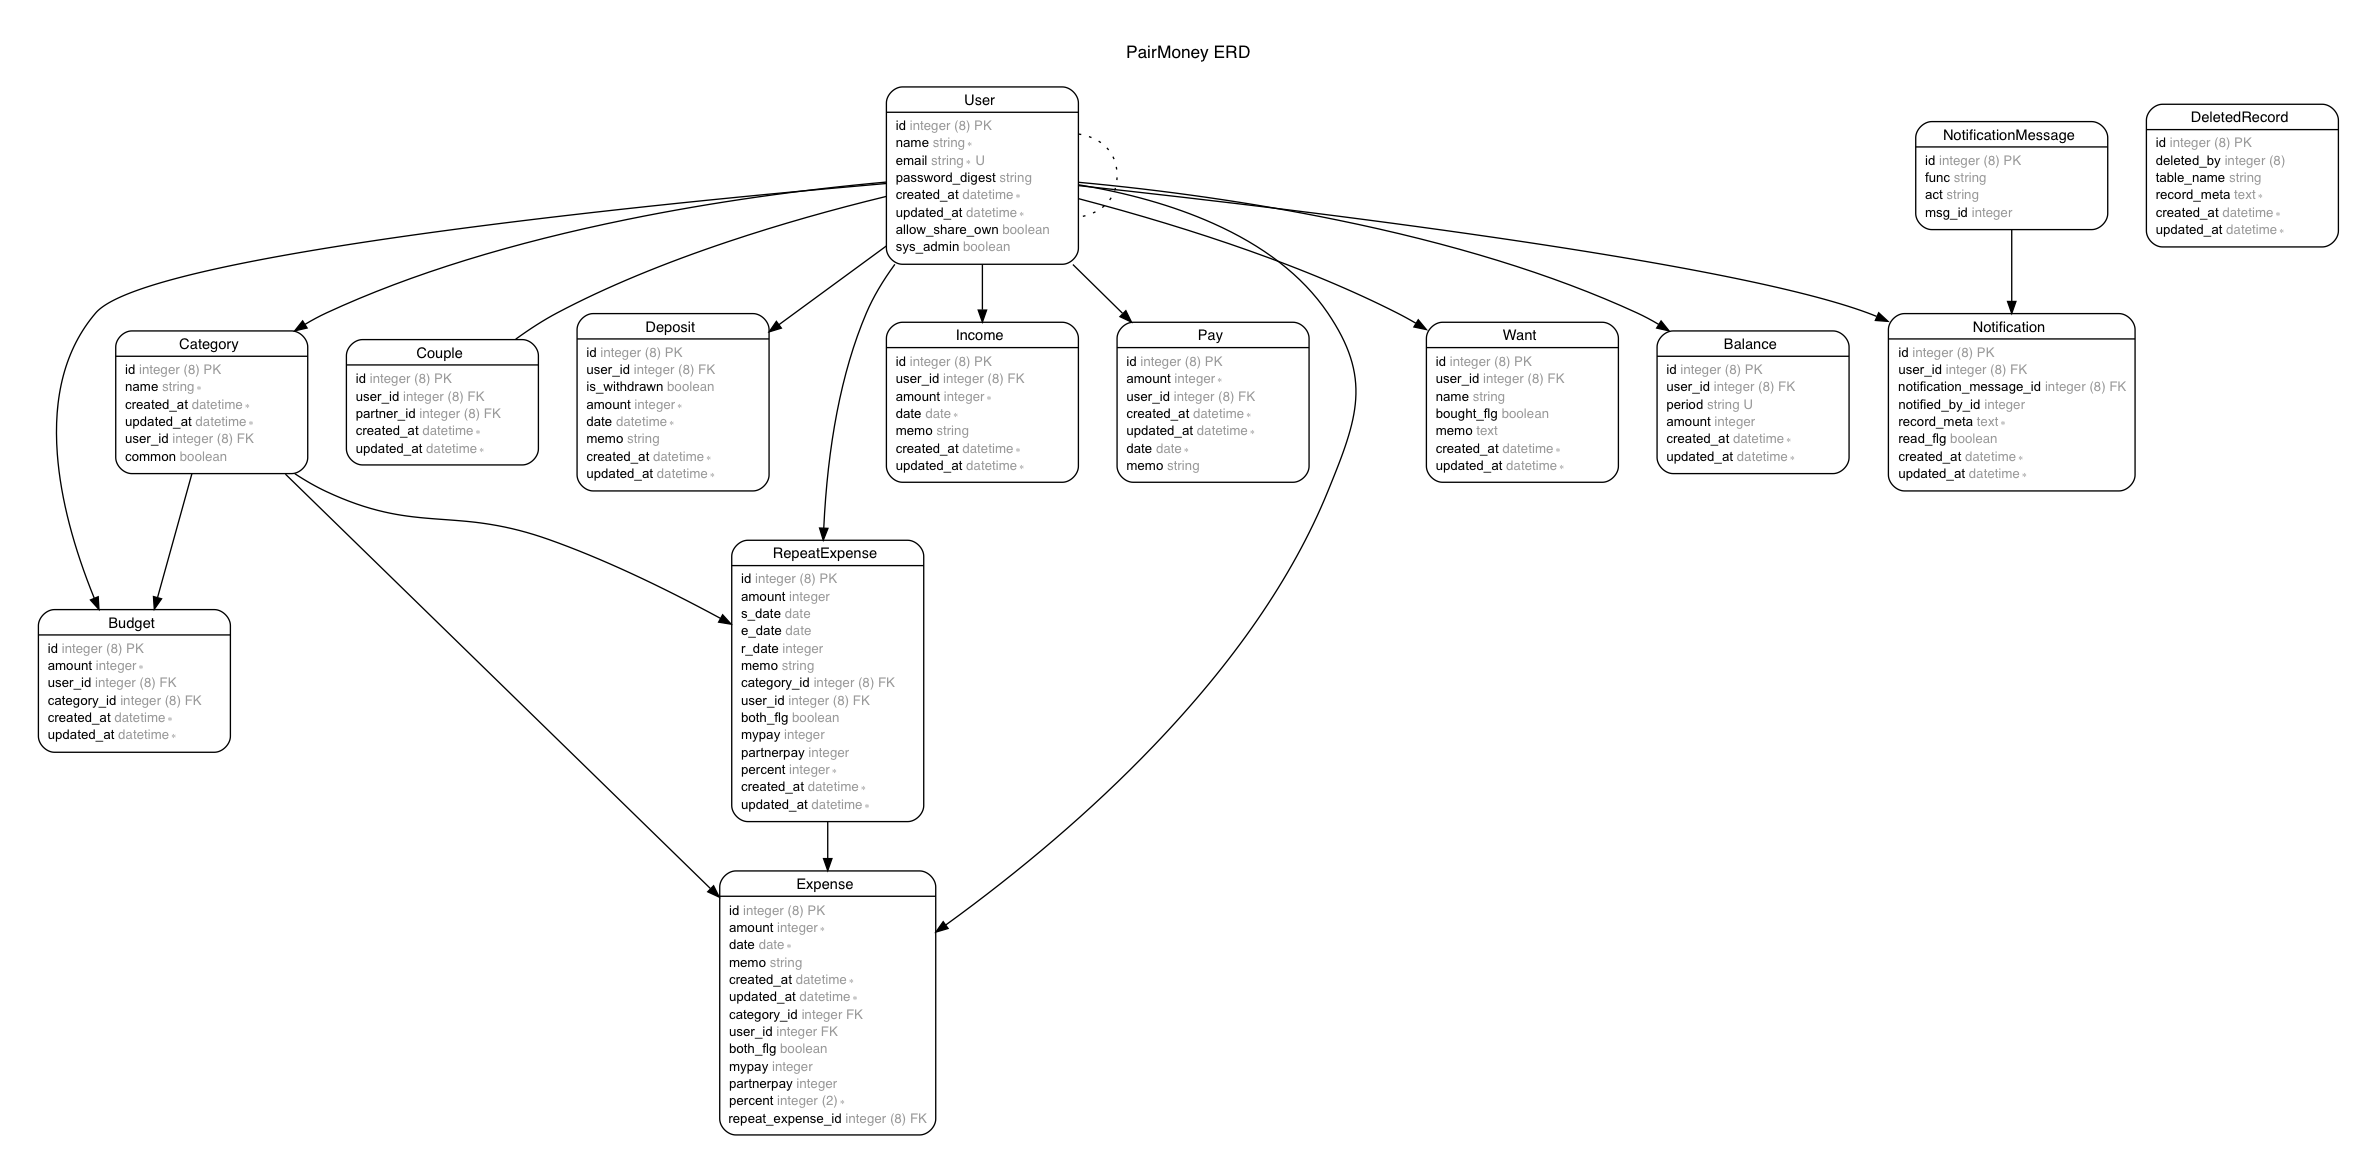
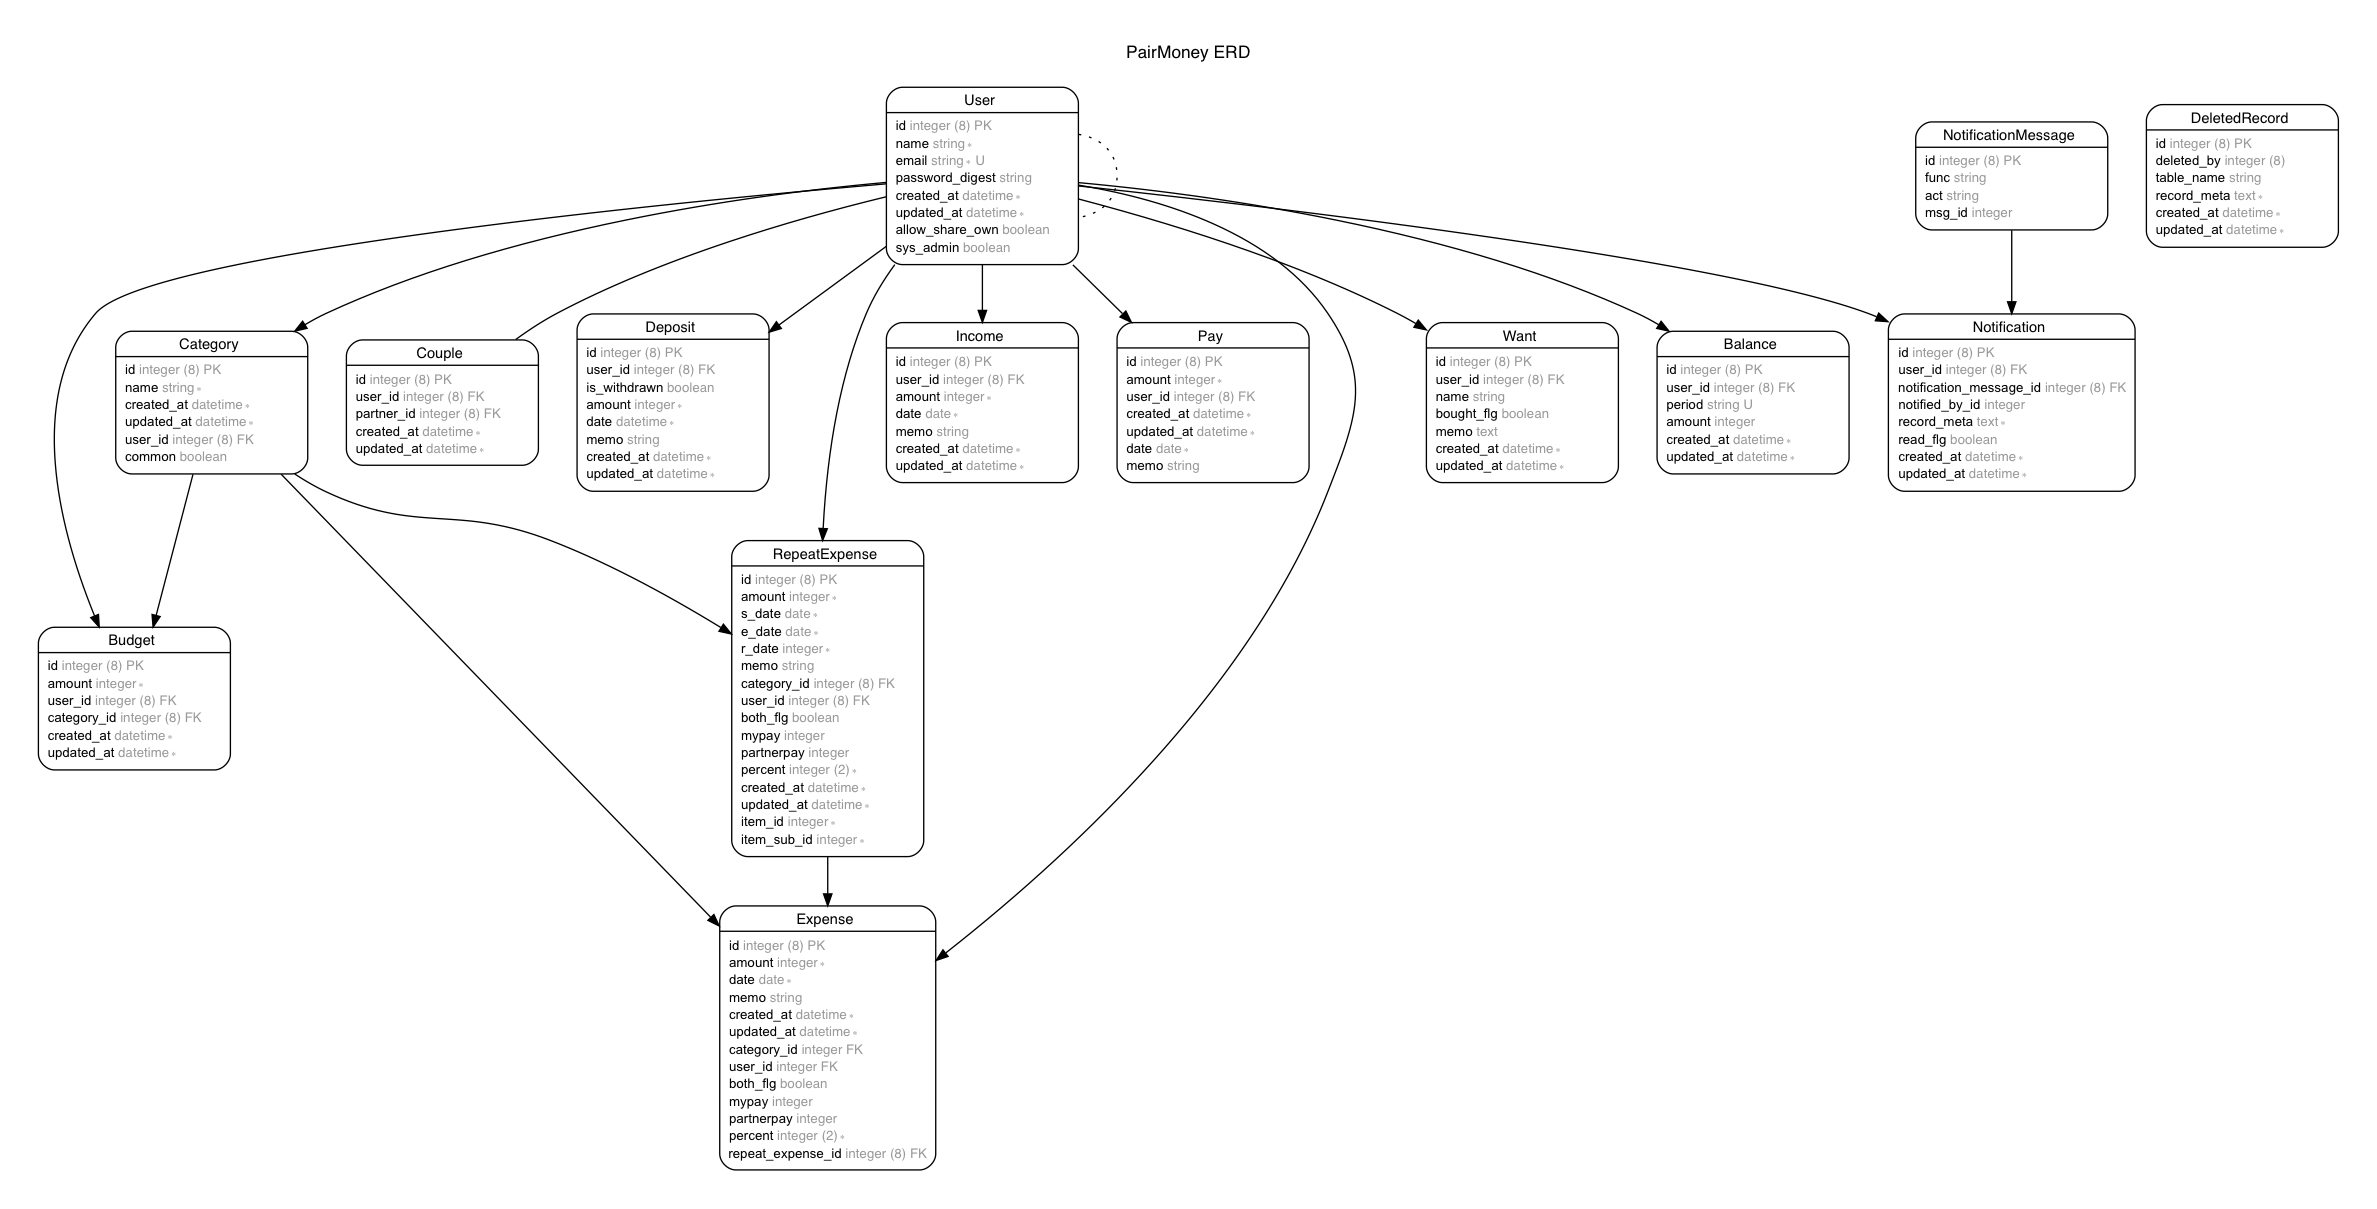
repeat_expensesにitem_idとitem_sub_idを追加 #56

diff --git a/app/models/repeat_expense.rb b/app/models/repeat_expense.rb
@@ -13,12 +13,14 @@
 # **`memo`**         | `string`           |
 # **`mypay`**        | `integer`          |
 # **`partnerpay`**   | `integer`          |
-# **`percent`**      | `integer`          | `not null`
+# **`percent`**      | `integer`          | `default("pay_all"), not null`
 # **`r_date`**       | `integer`          |
 # **`s_date`**       | `date`             |
 # **`created_at`**   | `datetime`         | `not null`
 # **`updated_at`**   | `datetime`         | `not null`
 # **`category_id`**  | `bigint(8)`        |
+# **`item_id`**      | `integer`          | `not null`
+# **`item_sub_id`**  | `integer`          | `not null`
 # **`user_id`**      | `bigint(8)`        |
 #
 # ### Indexes
@@ -27,6 +29,10 @@
 #     * **`category_id`**
 # * `index_repeat_expenses_on_user_id`:
 #     * **`user_id`**
+# * `index_repeat_expenses_on_user_id_and_item_id_and_item_sub_id` (_unique_):
+#     * **`user_id`**
+#     * **`item_id`**
+#     * **`item_sub_id`**
 #
 # ### Foreign Keys
 #

diff --git a/db/schema.rb b/db/schema.rb
@@ -10,7 +10,7 @@
 #
 # It's strongly recommended that you check this file into your version control system.
 
-ActiveRecord::Schema.define(version: 2019_06_16_045856) do
+ActiveRecord::Schema.define(version: 2019_06_23_040934) do
 
   # These are extensions that must be enabled in order to support this database
   enable_extension "plpgsql"
@@ -142,7 +142,10 @@ ActiveRecord::Schema.define(version: 2019_06_16_045856) do
     t.integer "percent", limit: 2, default: 0, null: false
     t.datetime "created_at", null: false
     t.datetime "updated_at", null: false
+    t.integer "item_id", null: false
+    t.integer "item_sub_id", null: false
     t.index ["category_id"], name: "index_repeat_expenses_on_category_id"
+    t.index ["user_id", "item_id", "item_sub_id"], name: "index_repeat_expenses_on_user_id_and_item_id_and_item_sub_id", unique: true
     t.index ["user_id"], name: "index_repeat_expenses_on_user_id"
   end
 

diff --git a/db/migrate/20190623035318_add_item_id_and_item_sub_id_to_repeat_expenses.rb b/db/migrate/20190623035318_add_item_id_and_item_sub_id_to_repeat_expenses.rb
@@ -1,0 +1,7 @@
+class AddItemIdAndItemSubIdToRepeatExpenses < ActiveRecord::Migration[5.2]
+  def change
+    add_column :repeat_expenses, :item_id, :integer
+    add_column :repeat_expenses, :item_sub_id, :integer
+    add_index :repeat_expenses, [:user_id, :item_id, :item_sub_id], unique: true
+  end
+end

diff --git a/db/migrate/20190623040934_change_column_null_false_item_id_and_item_sub_id.rb b/db/migrate/20190623040934_change_column_null_false_item_id_and_item_sub_id.rb
@@ -1,0 +1,6 @@
+class ChangeColumnNullFalseItemIdAndItemSubId < ActiveRecord::Migration[5.2]
+  def change
+    change_column_null :repeat_expenses, :item_id, false
+    change_column_null :repeat_expenses, :item_sub_id, false
+  end
+end
